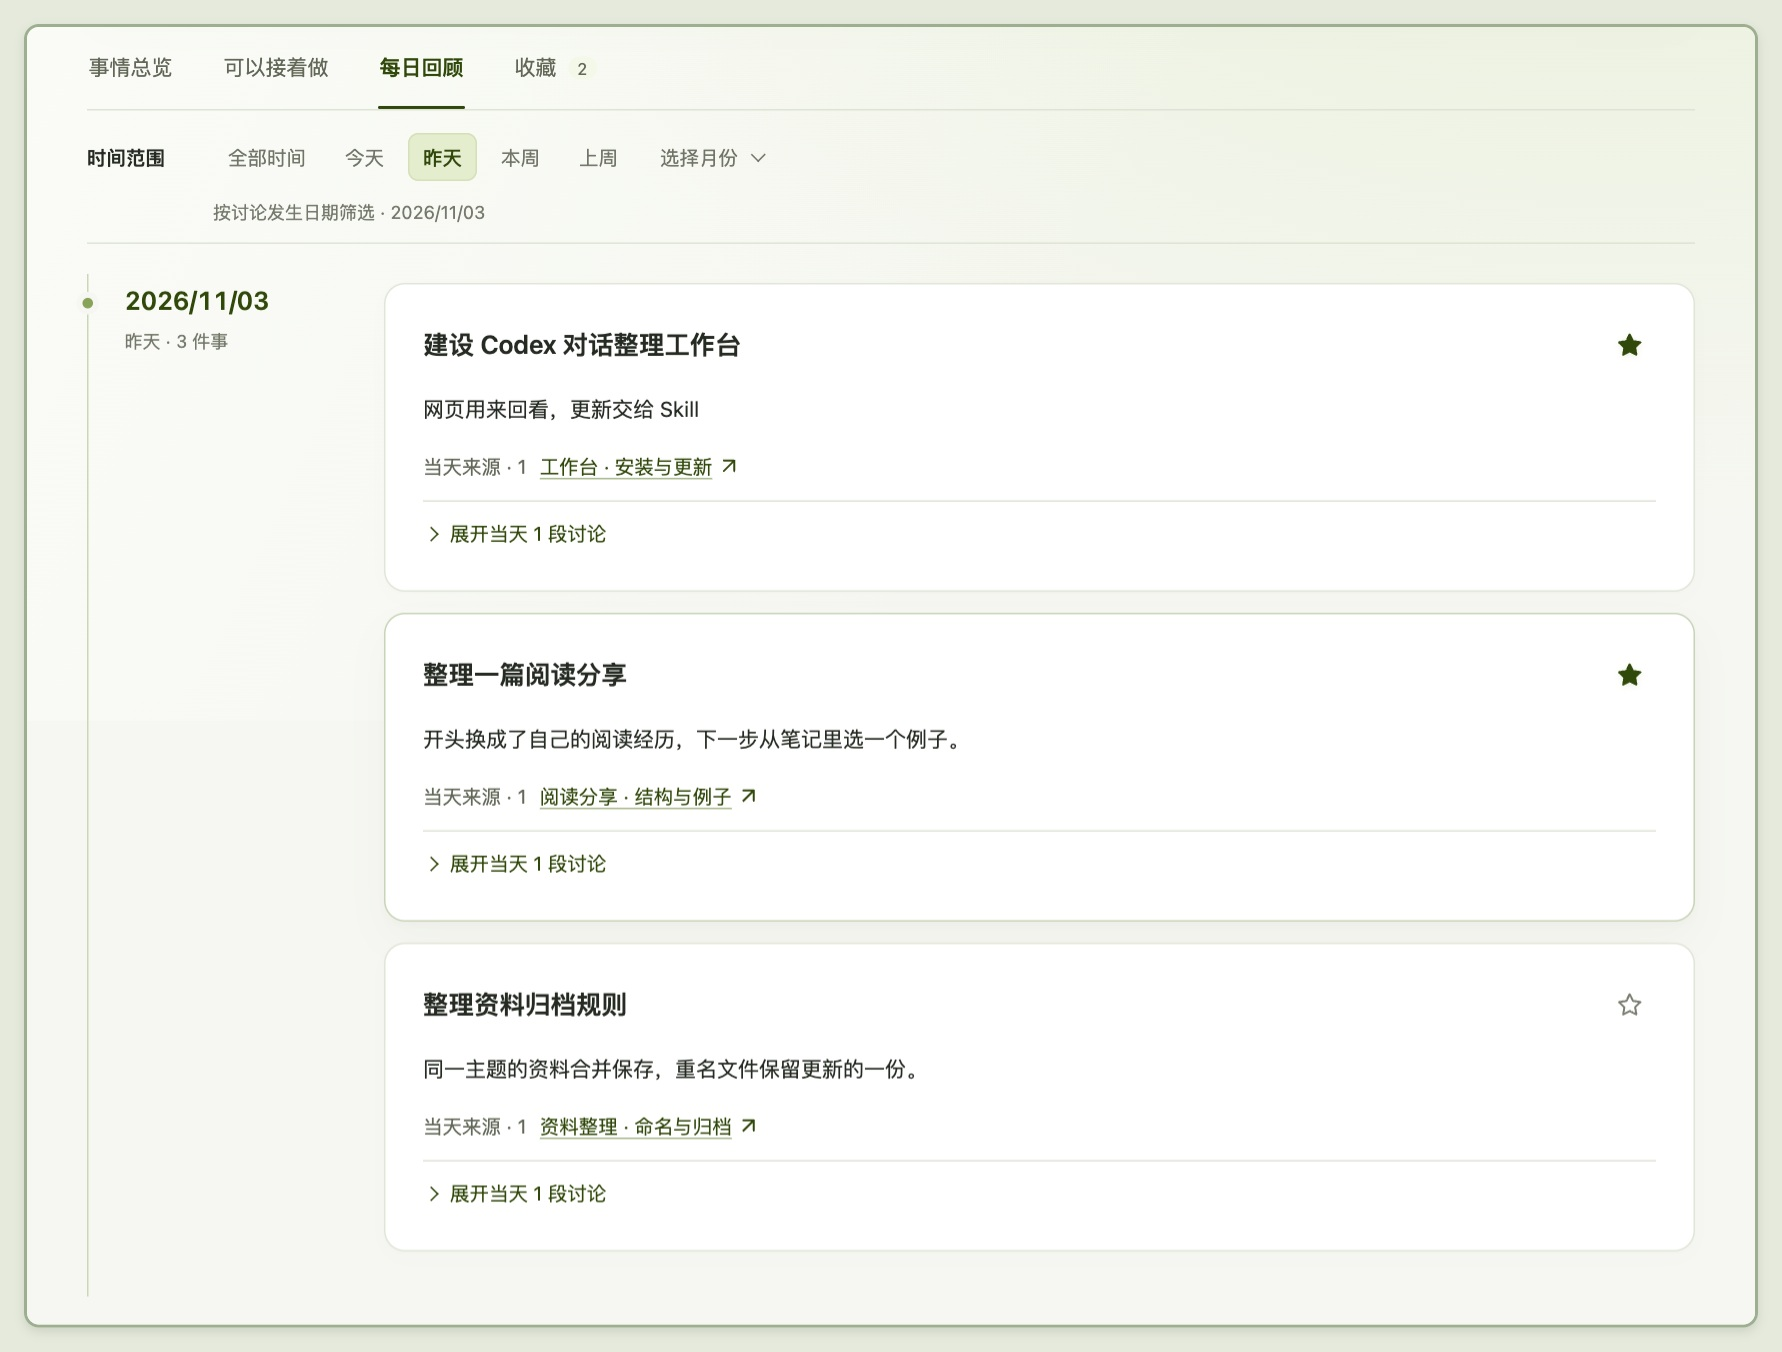
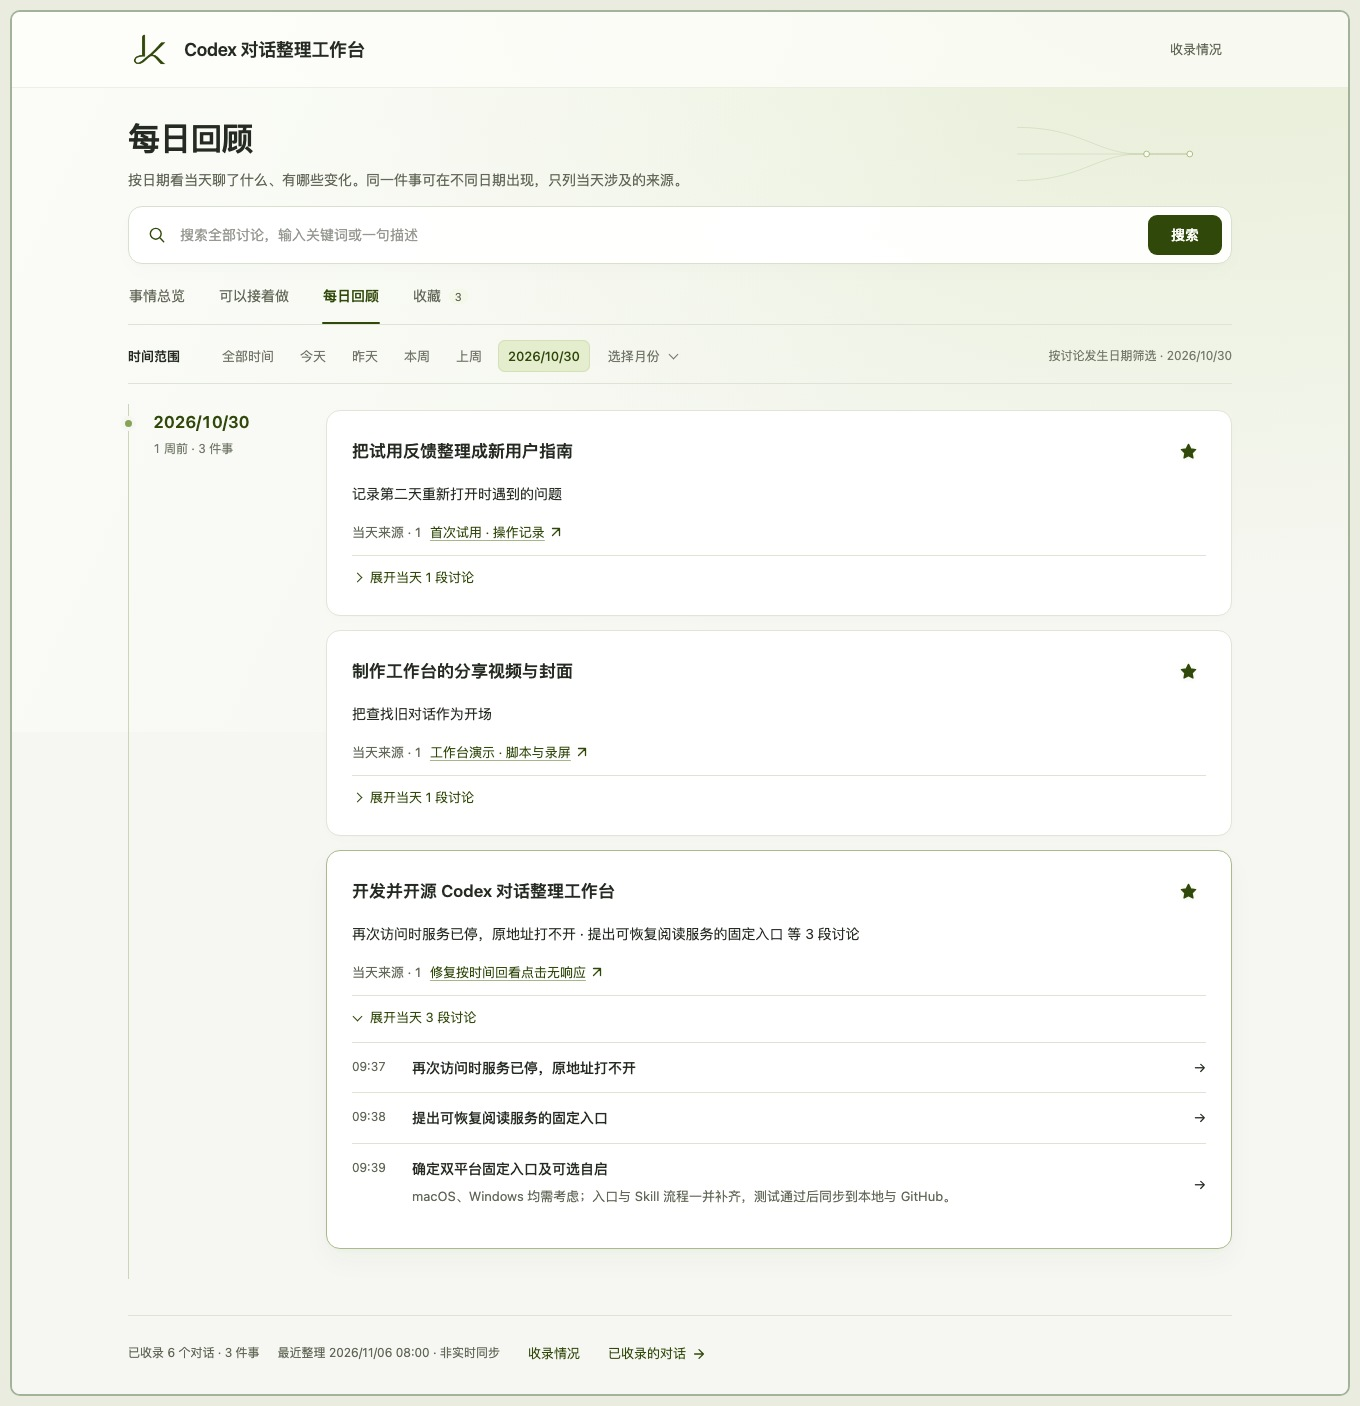
Show a multi-window project across full desktop README screenshots

diff --git a/README.md b/README.md
@@ -2,13 +2,13 @@
 
 # Codex 对话整理工作台
 
-把散落在 Codex 窗口里的讨论按事情整理成一个本地网页。找回当时的决定，也能跳回原窗口接着聊。
+把散落在多个 Codex 窗口里的对话整理成一个本地网页。记不清原话也能搜索，隔了几天也能看到哪些事还可以继续。
 
 [开始使用](#开始使用) · [三个使用场景](#三个使用场景) · [常见问题](#常见问题)
 
 </div>
 
-![工作台建设案例：从三个窗口的讨论里，找回当时定下的方案](docs/images/workbench-cover.jpg)
+![从事情总览搜索旧对话、接续未完的事，或按日期回顾讨论。示例卡片汇集工作台项目的两个来源窗口](docs/images/workbench-cover.jpg)
 
 ## 三个使用场景
 
@@ -22,7 +22,7 @@
 
 ![可以接着做：上方列出明确的下一步，下方展开待确认事项，并提供移入或不再显示的操作](docs/images/workbench-tasks.jpg)
 
-*一眼看清停在哪里、还差什么；AI 无法确认的进展也不会藏起来。*
+*分享视频已经确定要补录一个镜头，使用指南还要不要补例子，则留在“进展待确认”。这两个周边事项使用模拟内容演示。*
 
 ### 2. 明明聊过，却找不到在哪个窗口
 
@@ -40,21 +40,21 @@
 
 **按事情看：不仅找到窗口，还能回忆当时为什么这样做。**
 
-“事情总览”把同一目标的讨论放在一张卡片里。比如工作台的原型、界面和安装方式分三个窗口讨论，回看时只要打开“建设 Codex 对话整理工作台”这一张卡片。
+“事情总览”把同一目标的讨论放在一张卡片里。下面这个真实案例跨了两个窗口：先聊怎么找回旧方案，后来又聊到配色、安装和桌面入口。打开“开发并开源 Codex 对话整理工作台”，就能沿着同一件事往回看。
 
-![事情总览：同一件事的三个来源窗口汇在一张卡片里](docs/images/workbench-overview.jpg)
+![事情总览：工作台的两个来源窗口汇在同一张卡片里，分享视频和使用指南各自成项](docs/images/workbench-overview.jpg)
 
-进入详情，先读小结和最近两条“决定与变化”。点一条决定可以核对当时的原话。只想回看界面怎么定下来的，可以在“讨论经过”右侧选“视觉设计”，单独看这个主题的讨论。
+进入详情，先读小结和最近两条“决定与变化”。点一条决定可以核对当时的原话。例如，看到“双平台固定启动入口”的决定，往前就能找到提出问题的原话：第一次安装后可以用，第二天再点原地址却打不开。也可以在“讨论经过”右侧选“固定打开入口”，单独看这个主题。
 
-![讨论详情：上方是事项小结和最近两条决定与变化，左侧是跨日期讨论经过，右侧是对应小结与原话](docs/images/workbench-detail.jpg)
+![讨论详情：展开决定列表，沿着讨论经过回到用户第二天打不开网页的原话](docs/images/workbench-detail.jpg)
 
-*图中用工作台建设过程举例，讨论文字已简化。*
+*图中选取了 10 月 15 日至 11 月 5 日的 12 段工作台建设讨论。*
 
 **按日期看：快速回顾某一天都聊了什么。**
 
-“每日回顾”按天展示讨论的小结与变化。比如选择“昨天”，就能一起看到工作台建设、资料归档和阅读分享；需要细看时，展开当天的讨论，或点击事情进入详情。
+“每日回顾”按天展示讨论的小结与变化。比如回看 10 月 30 日，可以同时看到桌面启动入口的由来、分享视频的开场怎么演示，以及指南里要解释哪一个使用问题。展开当天的讨论，就能定位到具体一段。
 
-![每日回顾：选择昨天，集中查看同一天三件事的变化和当天来源](docs/images/workbench-daily.jpg)
+![每日回顾：10 月 30 日的三件事和当天来源，展开工作台的讨论可看到从问题到决定的经过](docs/images/workbench-daily.jpg)
 
 *事情总览展示一件事的全部来源；每日回顾展示当天的进展与当天来源。一个看经过，一个回看某一天。*
 
@@ -62,7 +62,7 @@
 
 找到有用的方案或暂时想回看的事情，点一下 ☆，就能在“收藏”页集中找到。它是轻量的临时标记，不用再建一套任务清单。
 
-![收藏：临时保留工作台建设与阅读分享，下次直接回看](docs/images/workbench-favorites.jpg)
+![收藏：收藏工作台建设、分享视频与使用指南，方便下次从各自的进展接着看](docs/images/workbench-favorites.jpg)
 
 收藏保存在当前浏览器。普通重启通常不会丢失；换浏览器不会同步，清除本站数据后会丢失。页面里也保留了保存说明。
 
